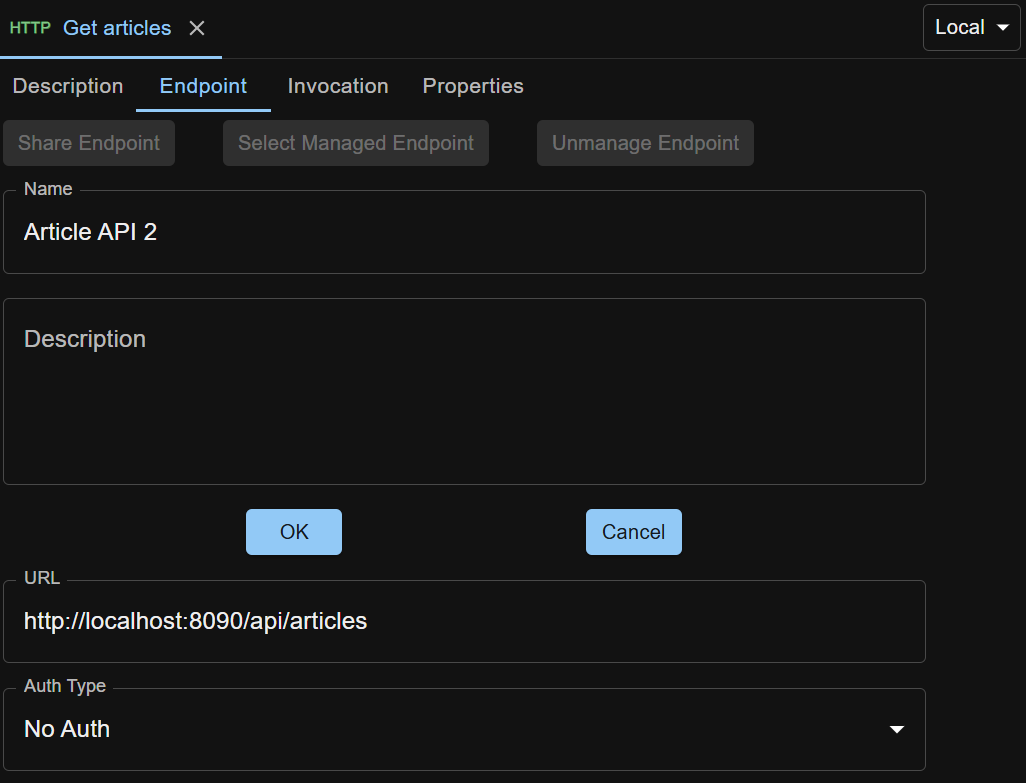
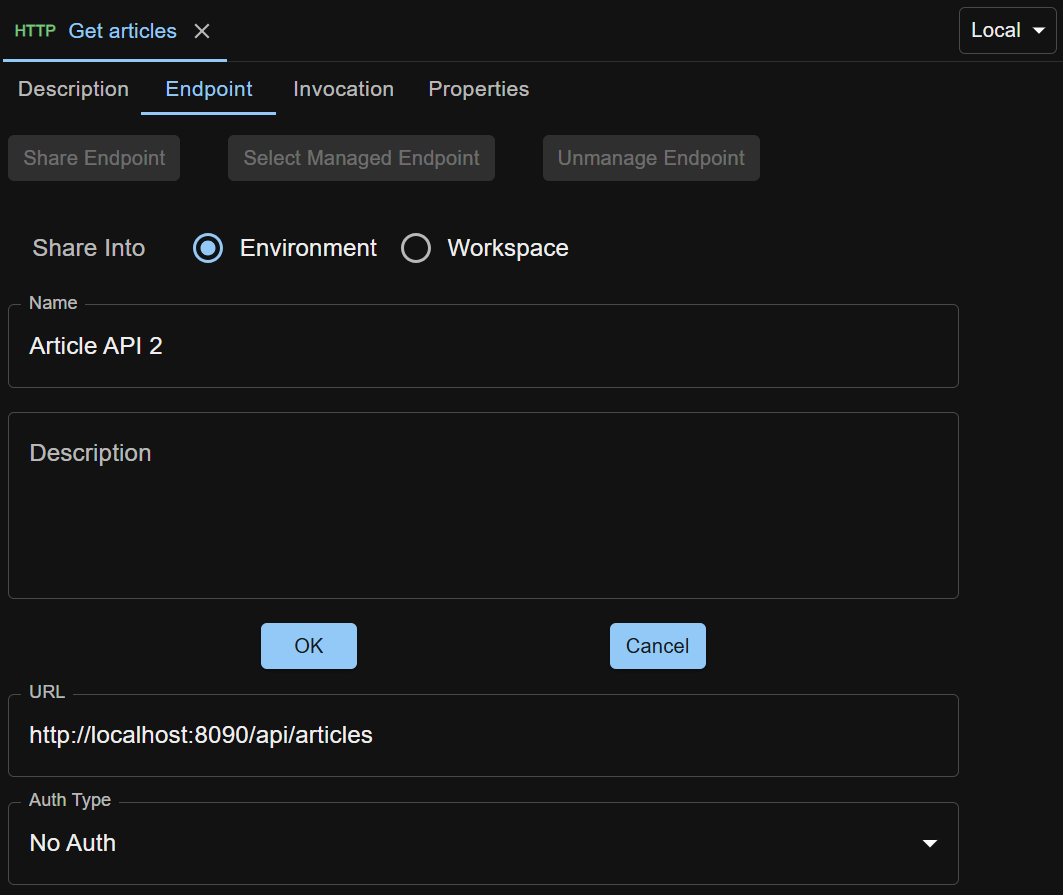
update endpoints management

diff --git a/_docs/en/endpoints-management.md b/_docs/en/endpoints-management.md
@@ -7,12 +7,21 @@ When a new request is created, an `unmanaged endpoint` with empty values will be
 
 Unmanaged endpoint is specific to a request, and is invisible to other requests.
 
-To reuse endpoints across requests, you can create `managed endpoints` in [Environments](/docs/en/environments-management).
+To reuse endpoints across requests, you can create `managed endpoints` in [Environments](/docs/en/environments-management) or workspace.
 
-There are two ways to create a managed endpoint. Here we use HTTP endpoint as an example.
+## Scope
+Endpoint created in an environment is only effective when the environment is selected.
 
-## Create Managed Endpoint in an Environment
-Suppose you have created an environment (like 'Local') in the Environments area, open the environment. Click `+ Endpoint` dropdown button, select `HTTP`, give it a name (like 'Article API') and press Enter. A managed HTTP endpoint is created.
+Endpoint created in a workspace is effective across all environments in the workspace.
+
+When an endpoint in an environment and another endpoint in the workspace have the same name, and the environment is selected, the endpoint in the environment takes priority.
+
+## Creating Managed Endpoints
+
+Here we use HTTP endpoint as an example.
+
+### Create Managed Endpoint in an Environment
+Suppose you have created an environment (like `Local`) in the Environments area, open the environment. Click `+ Endpoint` dropdown button, select `HTTP`, give it a name (like 'Article API') and press Enter. A managed HTTP endpoint is created.
 
 Enter details into the fields, and the endpoint looks like below. 
 
@@ -20,19 +29,22 @@ Enter details into the fields, and the endpoint looks like below.
 
 To use the newly created managed endpoint, first make sure its environment is selected for your workspace.
 
-Go to an HTTP request, click the `Endpoint` tab, and click `Select Managed Endpoint` button to see a modal that lists all HTTP endpoints from the selected environment (here 'Local').
+Go to an HTTP request, click the `Endpoint` tab, and click `Select Managed Endpoint` button to see a modal that lists all HTTP endpoints from the selected environment (here `Local`) and workspace.
 
 ![Select Managed Endpoint](../../screenshots/env-mgmt/select-managed-endpoint.png)
 
 Click the endpoint name to select it for use in the HTTP request.
 
-## Share Unmanaged Endpoint from Request
+### Create Managed Endpoint in a Workspace
+Open the workspace metadata from the `Workspace Metadata` icon in the left sidebar, and create managed endpoint in it similarly as creating managed endpoint in an environment.
+
+### Share Unmanaged Endpoint from Request
 This is a convenient feature for you to capture endpoint details while editing a request, and then turn the unmanaged endpoint into managed.
 
-Under `Endpoint` tab of a request, click `Share Endpoint` button. Enter details and click `OK` button. The unmanaged endpoint will be shared into the currently selected environment (here 'Local').
+Under `Endpoint` tab of a request, click `Share Endpoint` button. Enter details and click `OK` button. The unmanaged endpoint will be shared into the currently selected environment (here `Local`) or workspace.
 
 ![Share Unmanaged Endpoint](../../screenshots/env-mgmt/share-unmanaged-endpoint.png)
 
 ## Changing from Managed Endpoint to Unmanaged for a Request
-Clicking the `Unmanage Endpoint` button under the `Endpoint` tab will allow you to clone the managed endpoint to an unmanaged one for the request. The managed one stays untouched in its containing environment.
+Clicking the `Unmanage Endpoint` button under the `Endpoint` tab will allow you to clone the managed endpoint to an unmanaged one for the request. The managed one stays untouched in its containing environment or workspace.
  
